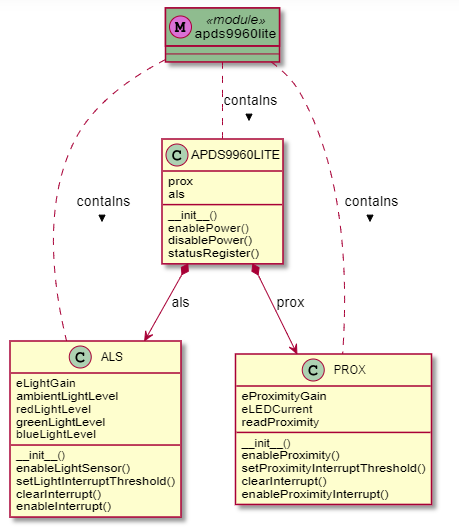
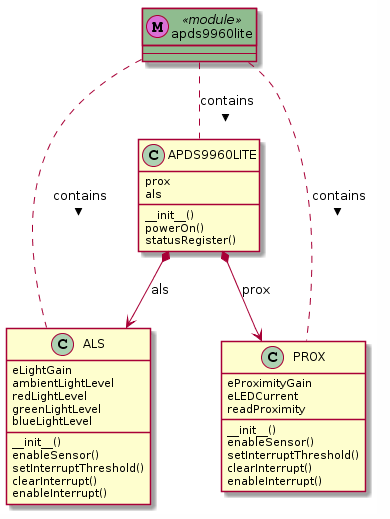
Fixup names

diff --git a/uPy_APDS9960/apds9960lite.py b/uPy_APDS9960/apds9960lite.py
@@ -106,7 +106,7 @@ class ALS(I2CEX):
                  i2c):
         super().__init__(i2c,0x39) # initiate I2CEX with APDS9960_ADDR
 
-    def enableLightSensor(self,on=True):
+    def enableSensor(self,on=True):
         """Enable/Disable the Light sensor
 
         :param on: Enables / Disables the Light sensor
@@ -185,7 +185,7 @@ class ALS(I2CEX):
         """       
         return super().__read2Byte(0x9A) #returns BDATAL and BDATAH
 
-    def setLightInterruptThreshold(self,high=0,low=20,persistance=4):
+    def setInterruptThreshold(self,high=0,low=20,persistance=4):
         """Enable/Disable the proimity sensor
 
         :param high: high level for generating light hardware interrupt (Range 0 - 1025)
@@ -239,7 +239,7 @@ class PROX(I2CEX):
                  i2c):
         super().__init__(i2c,0x39) # initiate I2CEX with APDS9960_ADDR
         
-    def enableProximity(self,on=True):
+    def enableSensor(self,on=True):
         """Enable/Disable the proimity sensor
 
         :param on: Enables / Disables the proximity sensor
@@ -250,7 +250,7 @@ class PROX(I2CEX):
         PEN=2  #Proximity enable bit 2 (PEN) in reg APDS9960_REG_ENABLE
         super().__regWriteBit(reg=0x80,bitPos=PEN,bitVal=on)
 
-    def setProximityInterruptThreshold(self,high=0,low=20,persistance=4):
+    def setInterruptThreshold(self,high=0,low=20,persistance=4):
         """Enable/Disable the proimity sensor
 
         :param high: high level for generating proximity hardware interrupt (Range 0 - 255)
@@ -281,7 +281,7 @@ class PROX(I2CEX):
         super().__writeByte(0xE7,0) #  APDS9960_AICLEAR clear all interrupts
         super().__readByte(0xE5)#(APDS9960_PICLEAR)
      
-    def enableProximityInterrupt(self,on=True):
+    def enableInterrupt(self,on=True):
         """Enables/Disables IRQ dependent on limits given by setProximityInterruptThreshold()
 
         :param on: Enable / Disable Hardware IRQ  
@@ -299,13 +299,13 @@ class PROX(I2CEX):
         :setter: Sets the reciever gain (0 -3)
         :type: int
 
-        ::
+            ::
 
-            eGain    Gain
-              0       1x
-              1       2x
-              2       4x
-              3       8x
+                eGain    Gain
+                  0       1x
+                  1       2x
+                  2       4x
+                  3       8x
         """
         #APDS9960_REG_CONTROL = const(0x8f)
         val=super().__readByte(0x8f)
@@ -334,13 +334,13 @@ class PROX(I2CEX):
         :setter: Sets the LED current(0 -3)
         :type: int
 
-        ::
+            ::
 
-          eCurent  LED Current
-            0        100 mA
-            1         50 mA
-            2         25 mA
-            3         12.5 mA
+              eCurent  LED Current
+                0        100 mA
+                1         50 mA
+                2         25 mA
+                3         12.5 mA
         """
         #APDS9960_REG_CONTROL = const(0x8f)
         val=super().__readByte(0x8f)
@@ -362,7 +362,7 @@ class PROX(I2CEX):
         super().__writeByte(0x8f,val)
 
     @property
-    def readProximity(self):
+    def proximityLevel(self):
         """Reads the APDS9960 proximity level
 
             :getter: Returns the proximity level (0 - 255 ) 
@@ -395,9 +395,9 @@ class APDS9960LITE(I2CEX) :
         """
         super().__init__(i2c,0x39) # initiate I2CEX with APDS9960_ADDR
 
-        super().__writeByte(0x80,0) # APDS9960_ENABLE PON=0
+        super().powerOn(False) # APDS9960_ENABLE PON=0
         sleep(.05)
-        super().__writeByte(0x80,0b00000001) # APDS9960_ENABLE PON=1
+        super().powerOn(True) # APDS9960_ENABLE PON=1
         self.prox=PROX(i2c)
         self.als=ALS(i2c)
         
@@ -418,35 +418,40 @@ class APDS9960LITE(I2CEX) :
 
     :type PROX: 
     """
-    def enablePower(self):
-        """Power on APDS-9960
+    def powerOn(self,on=True):
+        """Enable/Disable the apds9960 sensor
+
+        :param on: Enables / Disables the proximity sensor
+                (Default True)
+        :type on: bool
         """
-        #APDS9960_REG_ENABLE  = const(0x80)
+         # PEN - bit 2
         PON=0
-        super().__regWriteBit(0x80,PON, True)
+        super().__regWriteBit(reg=0x80,bitPos=PON,bitVal=on)
 
 
-    def disablePower(self):
-        """Power off APDS-9960
-        """
-        #APDS9960_REG_ENABLE  = const(0x80)
-        PON=0
-        super().__regWriteBit(0x80,PON, False)
-
+    @property
     def statusRegister(self):
             """
             Status Register (0x93)
             The read-only Status Register provides the status of the device. The register is set to 0x04 at power-up.
             Returns the device status.
 
-            :returns: Status register content 
-
-            ::
-
-              PGSAT - bit6 - Proximity Saturation
-              PINT  - bit5 - Proximity Interrupt
-              PVALID- bit1 - Proximity Valid 
-
+            :getter: Status register content byte 
+  
+                ====== ===== =============================
+                Field  Bits  Description
+                ====== ===== =============================
+                CPSAT     7  Clear Photodiode Saturation. 
+                PGSAT     6  Analog saturation event.
+                PINT      5  Proximity Interrupt. 
+                AINT      4  ALS Interrupt. 
+                DNC       3  Do not care.
+                GINT      2  Gesture Interrupt. 
+                PVALID    1  Proximity Valid. 
+                AVALID    0  ALS Valid. 
+                ====== ===== =============================
+ 
             :rtype: int      
             """
             return super().__readByte(0x93)

diff --git a/examples/prox/simple_irq_proximity_apds9960.py b/examples/prox/simple_irq_proximity_apds9960.py
@@ -7,11 +7,11 @@ i2c =  machine.I2C(scl=machine.Pin(5), sda=machine.Pin(4))
 apds9960=APDS9960LITE(i2c)
 apds9960.prox.eLEDCurrent    =0 # LED_DRIVE_100MA    
 apds9960.prox.eProximityGain =3 # PGAIN_8X   
-apds9960.prox.enableProximity()
+apds9960.prox.enableSensor()
 
 #IRQ Functionalities
-apds9960.prox.setProximityInterruptThreshold(high=10,low=0,persistance=7)
-apds9960.prox.enableProximityInterrupt()
+apds9960.prox.setInterruptThreshold(high=10,low=0,persistance=7)
+apds9960.prox.enableInterrupt()
 
 ProxThPin=machine.Pin(0, machine.Pin.IN ,machine.Pin.PULL_UP)
 
@@ -21,5 +21,5 @@ while True:
     sleep_ms(50)
 
     if(ProxThPin.value()==0):
-        print("proximity:", apds9960.prox.readProximity )
+        print("proximity:", apds9960.prox.proximityLevel )
         apds9960.prox.clearInterrupt()  

diff --git a/examples/prox/irq_proximity_apds9960.py b/examples/prox/irq_proximity_apds9960.py
@@ -21,9 +21,9 @@ apds9960=APDS9960LITE(i2c)
 apds9960.prox.eLEDCurrent   =APDS9960_LED_DRIVE_100MA    
 apds9960.prox.eProximityGain=APDS9960_PGAIN_8X   
 
-apds9960.prox.enableProximity()
-apds9960.prox.setProximityInterruptThreshold(high=10,low=0,persistance=7)
-apds9960.prox.enableProximityInterrupt()
+apds9960.prox.enableSensor()
+apds9960.prox.setInterruptThreshold(high=10,low=0,persistance=7)
+apds9960.prox.enableInterrupt()
 
 ProxThPin=machine.Pin(0, machine.Pin.IN ,machine.Pin.PULL_UP)
 
@@ -33,5 +33,5 @@ while True:
     sleep_ms(50)
 
     if(ProxThPin.value()==0):
-        print("proximity:", apds9960.prox.readProximity )
+        print("proximity:", apds9960.prox.proximityLevel )
         apds9960.prox.clearInterrupt()  

diff --git a/examples/prox/simple_proximity_apds9960.py b/examples/prox/simple_proximity_apds9960.py
@@ -5,9 +5,9 @@ from uPy_APDS9960.APDS9960LITE import APDS9960LITE
 #Init I2C Buss
 i2c =  machine.I2C(scl=machine.Pin(5), sda=machine.Pin(4))
 
-apds9960=APDS9960LITE(i2c)         # Enable sensor
-apds9960.prox.enableProximity()    # Enable Proximit sensing
-apds9960.als.enableLightSensor()   # Enable Light sensor 
+apds9960=APDS9960LITE(i2c)      # Enable sensor
+apds9960.prox.enableSensor()    # Enable Proximit sensing
+
 while True:
         sleep_ms(25) # wait for readout to be ready
-        print(apds9960.prox.readProximity)   #Print the proximity value
+        print(apds9960.prox.proximityLevel)   #Print the proximity value

diff --git a/examples/als/simple_light_irq_apds9960.py b/examples/als/simple_light_irq_apds9960.py
@@ -6,9 +6,9 @@ from uPy_APDS9960.APDS9960LITE import APDS9960LITE
 i2c =  machine.I2C(scl=machine.Pin(5), sda=machine.Pin(4))
 
 apds9960=APDS9960LITE(i2c)         # Enable sensor
-apds9960.als.enableLightSensor()   # Enable Light sensor
+apds9960.als.enableSensor()   # Enable Light sensor
 apds9960.als.eLightGain=3          # x64 gain
-apds9960.als.setLightInterruptThreshold(high=100,low=0,persistance=7)
+apds9960.als.setInterruptThreshold(high=100,low=0,persistance=7)
 apds9960.als.enableInterrupt(True)     # Enable interrupt
 apds9960.als.clearInterrupt()          # Clear interrupt
 sleep_ms(50)

diff --git a/examples/prox/proximity_apds9960.py b/examples/prox/proximity_apds9960.py
@@ -19,10 +19,10 @@ i2c =  machine.I2C(scl=machine.Pin(5), sda=machine.Pin(4))
 apds9960=APDS9960LITE(i2c)
 apds9960.prox.eLEDCurrent   =APDS9960_LED_DRIVE_100MA    
 apds9960.prox.eProximityGain=APDS9960_PGAIN_8X   
-apds9960.prox.enableProximity()
+apds9960.prox.enableSensor()
 
 sleep_ms(50)
 
 while True:
     sleep_ms(50)
-    print("proximity:", apds9960.prox.readProximity )
+    print("proximity:", apds9960.prox.proximityLevel )

diff --git a/examples/als/simple_light_apds9960.py b/examples/als/simple_light_apds9960.py
@@ -8,7 +8,7 @@ i2c =  machine.I2C(scl=machine.Pin(5), sda=machine.Pin(4))
 apds9960=APDS9960LITE(i2c)         # Enable sensor
 print("Enable light Sensor")
 
-apds9960.als.enableLightSensor()   # Enable Light sensor
+apds9960.als.enableSensor()   # Enable Light sensor
 apds9960.als.eLightGain=3          # x64 gain
 #apds9960.prox.enableProximity()
 sleep_ms(50)

diff --git a/README.rst b/README.rst
@@ -55,12 +55,12 @@ Usage Example
   #Init I2C Buss
   i2c =  machine.I2C(scl=machine.Pin(5), sda=machine.Pin(4))
 
-  apds9960=APDS9960LITE(i2c)         # Enable sensor
-  apds9960.prox.enableProximity()    # Enable Proximit sensing
+  apds9960=APDS9960LITE(i2c)      # Enable sensor
+  apds9960.prox.enableSensor()    # Enable Proximit sensing
 
   while True:
           sleep_ms(25) # wait for readout to be ready
-          print(apds9960.prox.readProximity)   #Print the proximity value
+          print(apds9960.prox.proximityLevel)   #Print the proximity value
 
 
 Hardware Set-up
@@ -99,7 +99,7 @@ Then initialize the library.
 .. code:: python
 
   i2c =  machine.I2C(scl=machine.Pin(5), sda=machine.Pin(4))
-  apds9960=APDS9960LITE(i2c)         # Enable sensor
+  apds9960=APDS9960LITE(i2c)         # Poweron APDS9960
   
 
 Proximity
@@ -108,9 +108,9 @@ Proximity funxtionalites is accessed torough the apds9960.prox member :class:`.P
 
 .. code:: python
 
-  apds9960.prox.enableProximity()     # Enable Proximity sensing
-  sleep_ms(25)                        # wait for readout to be ready
-  print(apds9960.prox.readProximity)  # Print the proximity value
+  apds9960.prox.enableSensor()         # Enable Proximity sensing
+  sleep_ms(25)                         # wait for readout to be ready
+  print(apds9960.prox.proximityLevel)  # Print the proximity value
 
 Light Sensing
 ~~~~~~~~~~~~~
@@ -118,7 +118,7 @@ Proximity funxtionalites is accessed torough the apds9960.als member :class:`.AL
 
 .. code:: python
 
-  apds9960.als.enableLightSensor()      # Enable Light sensor
+  apds9960.als.enableSensor()           # Enable Light sensor
   sleep_ms(25)                          # Wait for readout to be ready
   print(apds9960.als.ambientLightLevel) # Print the ambient light value
 
